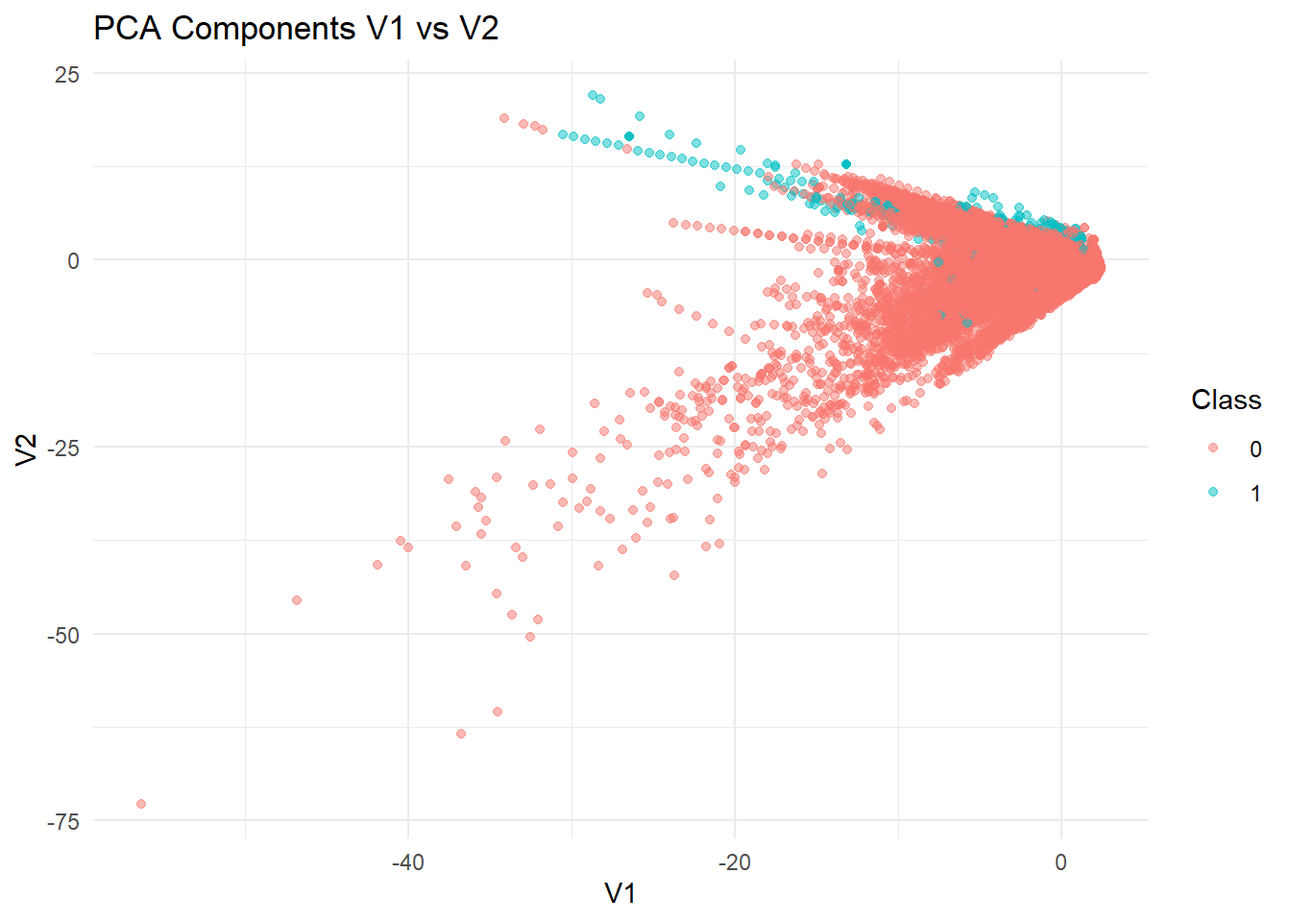
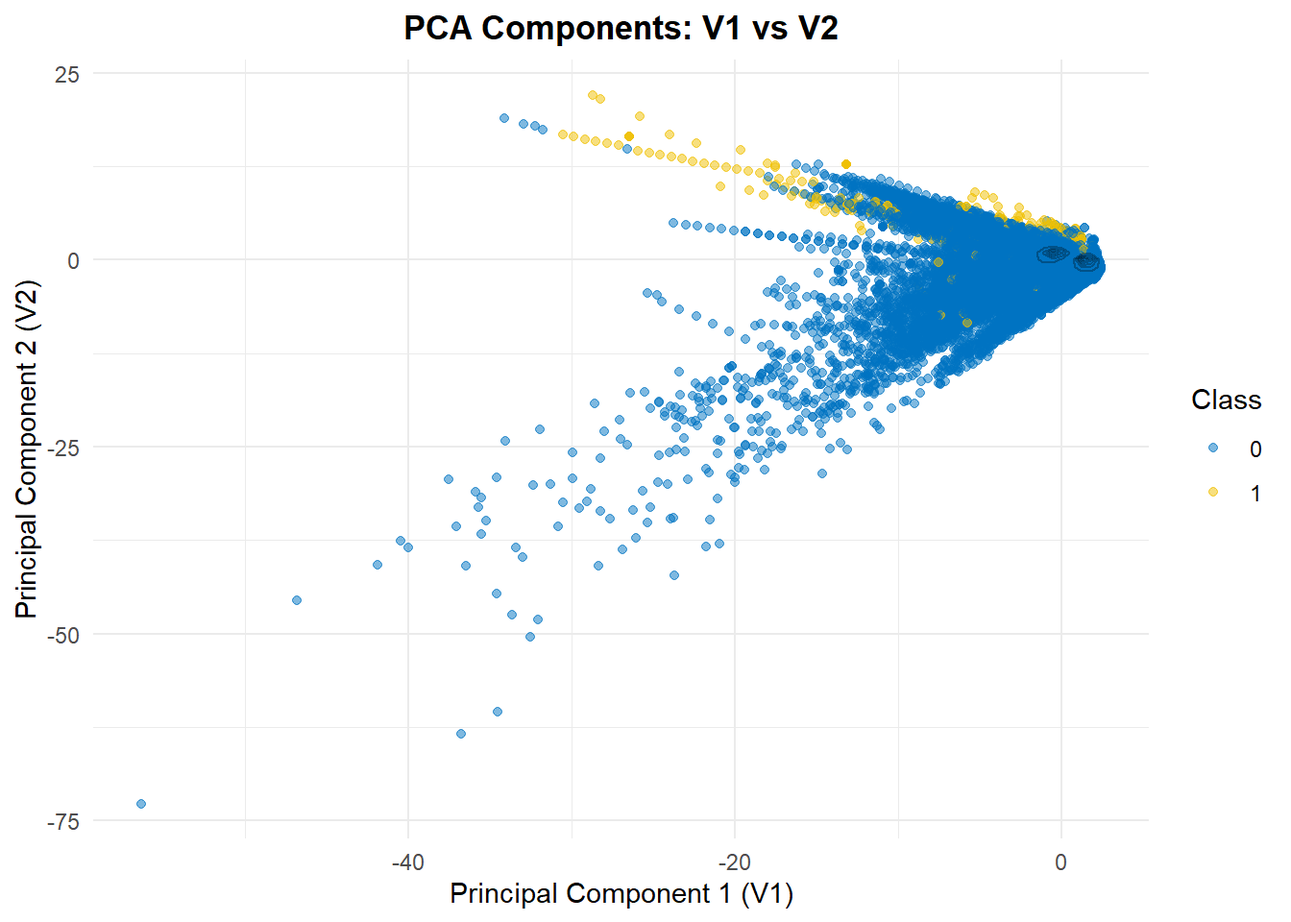
updated PCA scatterplot

diff --git a/Analysis.html b/Analysis.html
@@ -93,8 +93,8 @@ ul.task-list li input[type="checkbox"] {
 <h1>Reading the data</h1>
 <div class="cell">
 <div class="cell-output-display">
-<div class="datatables html-widget html-fill-item-overflow-hidden html-fill-item" id="htmlwidget-8ac09557b01484aeed40" style="width:100%;height:auto;"></div>
-<script type="application/json" data-for="htmlwidget-8ac09557b01484aeed40">{"x":{"filter":"none","vertical":false,"data":[["1","2","3","4","5","6"],[0,0,1,1,2,2],[-1.3598071336738,1.19185711131486,-1.35835406159823,-0.966271711572087,-1.15823309349523,-0.425965884412454],[-0.07278117330984971,0.26615071205963,-1.34016307473609,-0.185226008082898,0.877736754848451,0.960523044882985],[2.53634673796914,0.16648011335321,1.77320934263119,1.79299333957872,1.548717846511,1.14110934232219],[1.37815522427443,0.448154078460911,0.379779593034328,-0.863291275036453,0.403033933955121,-0.168252079760302],[-0.338320769942518,0.0600176492822243,-0.503198133318193,-0.0103088796030823,-0.407193377311653,0.42098688077219],[0.462387777762292,-0.0823608088155687,1.80049938079263,1.24720316752486,0.0959214624684256,-0.0297275516639742],[0.239598554061257,-0.0788029833323113,0.791460956450422,0.23760893977178,0.592940745385545,0.476200948720027],[0.0986979012610507,0.08510165491481041,0.247675786588991,0.377435874652262,-0.270532677192282,0.260314333074874],[0.363786969611213,-0.255425128109186,-1.51465432260583,-1.38702406270197,0.8177393082352939,-0.56867137571251],[0.0907941719789316,-0.166974414004614,0.207642865216696,-0.0549519224713749,0.753074431976354,-0.371407196834471],[-0.551599533260813,1.61272666105479,0.624501459424895,-0.226487263835401,-0.822842877946363,1.34126198001957],[-0.617800855762348,1.06523531137287,0.066083685268831,0.178228225877303,0.53819555014995,0.359893837038039],[-0.991389847235408,0.48909501589608,0.7172927314108311,0.507756869957169,1.3458515932154,-0.358090652573631],[-0.311169353699879,-0.143772296441519,-0.165945922763554,-0.28792374549456,-1.11966983471731,-0.137133700217612],[1.46817697209427,0.635558093258208,2.34586494901581,-0.631418117709045,0.175121130008994,0.517616806555742],[-0.470400525259478,0.463917041022171,-2.89008319444231,-1.0596472454325,-0.451449182813529,0.401725895589603],[0.207971241929242,-0.114804663102346,1.10996937869599,-0.684092786345479,-0.237033239362776,-0.0581328233640131],[0.0257905801985591,-0.183361270123994,-0.121359313195888,1.96577500349538,-0.0381947870352842,0.06865314944254319],[0.403992960255733,-0.145783041325259,-2.26185709530414,-1.2326219700892,0.803486924960175,-0.0331937877876282],[0.251412098239705,-0.0690831352230203,0.5249797252244039,-0.208037781160366,0.408542360392758,0.08496767206820489],[-0.018306777944153,-0.225775248033138,0.247998153469754,-0.108300452035545,-0.009430697132329189,-0.208253514656728],[0.277837575558899,-0.638671952771851,0.7716794019172289,0.00527359678253453,0.79827849458971,-0.559824796253248],[-0.110473910188767,0.101288021253234,0.909412262347719,-0.190320518742841,-0.137458079619063,-0.0263976679795373],[0.06692807491467311,-0.339846475529127,-0.689280956490685,-1.17557533186321,0.141266983824769,-0.371426583174346],[0.128539358273528,0.167170404418143,-0.327641833735251,0.647376034602038,-0.206009587619756,-0.232793816737034],[-0.189114843888824,0.125894532368176,-0.139096571514147,-0.221928844458407,0.502292224181569,0.105914779097957],[0.133558376740387,-0.00898309914322813,-0.0553527940384261,0.0627228487293033,0.219422229513348,0.253844224739337],[-0.0210530534538215,0.0147241691924927,-0.0597518405929204,0.0614576285006353,0.215153147499206,0.08108025692294429],[149.62,2.69,378.66,123.5,69.98999999999999,3.67],[0,0,0,0,0,0]],"container":"<table class=\"display\">\n  <thead>\n    <tr>\n      <th> <\/th>\n      <th>Time<\/th>\n      <th>V1<\/th>\n      <th>V2<\/th>\n      <th>V3<\/th>\n      <th>V4<\/th>\n      <th>V5<\/th>\n      <th>V6<\/th>\n      <th>V7<\/th>\n      <th>V8<\/th>\n      <th>V9<\/th>\n      <th>V10<\/th>\n      <th>V11<\/th>\n      <th>V12<\/th>\n      <th>V13<\/th>\n      <th>V14<\/th>\n      <th>V15<\/th>\n      <th>V16<\/th>\n      <th>V17<\/th>\n      <th>V18<\/th>\n      <th>V19<\/th>\n      <th>V20<\/th>\n      <th>V21<\/th>\n      <th>V22<\/th>\n      <th>V23<\/th>\n      <th>V24<\/th>\n      <th>V25<\/th>\n      <th>V26<\/th>\n      <th>V27<\/th>\n      <th>V28<\/th>\n      <th>Amount<\/th>\n      <th>Class<\/th>\n    <\/tr>\n  <\/thead>\n<\/table>","options":{"columnDefs":[{"className":"dt-right","targets":[1,2,3,4,5,6,7,8,9,10,11,12,13,14,15,16,17,18,19,20,21,22,23,24,25,26,27,28,29,30,31]},{"orderable":false,"targets":0}],"order":[],"autoWidth":false,"orderClasses":false}},"evals":[],"jsHooks":[]}</script>
+<div class="datatables html-widget html-fill-item-overflow-hidden html-fill-item" id="htmlwidget-a2525788a25b4bd6c91a" style="width:100%;height:auto;"></div>
+<script type="application/json" data-for="htmlwidget-a2525788a25b4bd6c91a">{"x":{"filter":"none","vertical":false,"data":[["1","2","3","4","5","6"],[0,0,1,1,2,2],[-1.3598071336738,1.19185711131486,-1.35835406159823,-0.966271711572087,-1.15823309349523,-0.425965884412454],[-0.07278117330984971,0.26615071205963,-1.34016307473609,-0.185226008082898,0.877736754848451,0.960523044882985],[2.53634673796914,0.16648011335321,1.77320934263119,1.79299333957872,1.548717846511,1.14110934232219],[1.37815522427443,0.448154078460911,0.379779593034328,-0.863291275036453,0.403033933955121,-0.168252079760302],[-0.338320769942518,0.0600176492822243,-0.503198133318193,-0.0103088796030823,-0.407193377311653,0.42098688077219],[0.462387777762292,-0.0823608088155687,1.80049938079263,1.24720316752486,0.0959214624684256,-0.0297275516639742],[0.239598554061257,-0.0788029833323113,0.791460956450422,0.23760893977178,0.592940745385545,0.476200948720027],[0.0986979012610507,0.08510165491481041,0.247675786588991,0.377435874652262,-0.270532677192282,0.260314333074874],[0.363786969611213,-0.255425128109186,-1.51465432260583,-1.38702406270197,0.8177393082352939,-0.56867137571251],[0.0907941719789316,-0.166974414004614,0.207642865216696,-0.0549519224713749,0.753074431976354,-0.371407196834471],[-0.551599533260813,1.61272666105479,0.624501459424895,-0.226487263835401,-0.822842877946363,1.34126198001957],[-0.617800855762348,1.06523531137287,0.066083685268831,0.178228225877303,0.53819555014995,0.359893837038039],[-0.991389847235408,0.48909501589608,0.7172927314108311,0.507756869957169,1.3458515932154,-0.358090652573631],[-0.311169353699879,-0.143772296441519,-0.165945922763554,-0.28792374549456,-1.11966983471731,-0.137133700217612],[1.46817697209427,0.635558093258208,2.34586494901581,-0.631418117709045,0.175121130008994,0.517616806555742],[-0.470400525259478,0.463917041022171,-2.89008319444231,-1.0596472454325,-0.451449182813529,0.401725895589603],[0.207971241929242,-0.114804663102346,1.10996937869599,-0.684092786345479,-0.237033239362776,-0.0581328233640131],[0.0257905801985591,-0.183361270123994,-0.121359313195888,1.96577500349538,-0.0381947870352842,0.06865314944254319],[0.403992960255733,-0.145783041325259,-2.26185709530414,-1.2326219700892,0.803486924960175,-0.0331937877876282],[0.251412098239705,-0.0690831352230203,0.5249797252244039,-0.208037781160366,0.408542360392758,0.08496767206820489],[-0.018306777944153,-0.225775248033138,0.247998153469754,-0.108300452035545,-0.009430697132329189,-0.208253514656728],[0.277837575558899,-0.638671952771851,0.7716794019172289,0.00527359678253453,0.79827849458971,-0.559824796253248],[-0.110473910188767,0.101288021253234,0.909412262347719,-0.190320518742841,-0.137458079619063,-0.0263976679795373],[0.06692807491467311,-0.339846475529127,-0.689280956490685,-1.17557533186321,0.141266983824769,-0.371426583174346],[0.128539358273528,0.167170404418143,-0.327641833735251,0.647376034602038,-0.206009587619756,-0.232793816737034],[-0.189114843888824,0.125894532368176,-0.139096571514147,-0.221928844458407,0.502292224181569,0.105914779097957],[0.133558376740387,-0.00898309914322813,-0.0553527940384261,0.0627228487293033,0.219422229513348,0.253844224739337],[-0.0210530534538215,0.0147241691924927,-0.0597518405929204,0.0614576285006353,0.215153147499206,0.08108025692294429],[149.62,2.69,378.66,123.5,69.98999999999999,3.67],[0,0,0,0,0,0]],"container":"<table class=\"display\">\n  <thead>\n    <tr>\n      <th> <\/th>\n      <th>Time<\/th>\n      <th>V1<\/th>\n      <th>V2<\/th>\n      <th>V3<\/th>\n      <th>V4<\/th>\n      <th>V5<\/th>\n      <th>V6<\/th>\n      <th>V7<\/th>\n      <th>V8<\/th>\n      <th>V9<\/th>\n      <th>V10<\/th>\n      <th>V11<\/th>\n      <th>V12<\/th>\n      <th>V13<\/th>\n      <th>V14<\/th>\n      <th>V15<\/th>\n      <th>V16<\/th>\n      <th>V17<\/th>\n      <th>V18<\/th>\n      <th>V19<\/th>\n      <th>V20<\/th>\n      <th>V21<\/th>\n      <th>V22<\/th>\n      <th>V23<\/th>\n      <th>V24<\/th>\n      <th>V25<\/th>\n      <th>V26<\/th>\n      <th>V27<\/th>\n      <th>V28<\/th>\n      <th>Amount<\/th>\n      <th>Class<\/th>\n    <\/tr>\n  <\/thead>\n<\/table>","options":{"columnDefs":[{"className":"dt-right","targets":[1,2,3,4,5,6,7,8,9,10,11,12,13,14,15,16,17,18,19,20,21,22,23,24,25,26,27,28,29,30,31]},{"orderable":false,"targets":0}],"order":[],"autoWidth":false,"orderClasses":false}},"evals":[],"jsHooks":[]}</script>
 </div>
 </div>
 </section>
@@ -157,8 +157,8 @@ Note
 <h2 class="anchored" data-anchor-id="exploring-the-data">Exploring the data</h2>
 <div class="cell">
 <div class="cell-output-display">
-<div class="datatables html-widget html-fill-item-overflow-hidden html-fill-item" id="htmlwidget-1d9b01b6543c174c0c8b" style="width:100%;height:auto;"></div>
-<script type="application/json" data-for="htmlwidget-1d9b01b6543c174c0c8b">{"x":{"filter":"none","vertical":false,"data":[["","","","","","","","","","","","","","","","","","","","","","","","","","","","","","","","","","","","","","","","","","","","","","","","","","","","","","","","","","","","","","","","","","","","","","","","","","","","","","","","","","","","","","","","","","","","","","","","","","","","","","","","","","","","","","","","","","","","","","","","","","","","","","","","","","","","","","","","","","","","","","","","","","","","","","","","","","","","","","","","","","","","","","","","","","","","","","","","","","","","","","","","","",""],["","","","","","","","","","","","","","","","","","","","","","","","","","","","","","","","","","","","","","","","","","","","","","","","","","","","","","","","","","","","","","","","","","","","","","","","","","","","","","","","","","","","","","","","","","","","","","","","","","","","","","","","","","","","","","","","","","","","","","","","","","","","","","","","","","","","","","","","","","","","","","","","","","","","","","","","","","","","","","","","","","","","","","","","","","","","","","","","","","","","","","","","","",""],["     Time","     Time","     Time","     Time","     Time","     Time","      V1","      V1","      V1","      V1","      V1","      V1","      V2","      V2","      V2","      V2","      V2","      V2","      V3","      V3","      V3","      V3","      V3","      V3","      V4","      V4","      V4","      V4","      V4","      V4","      V5","      V5","      V5","      V5","      V5","      V5","      V6","      V6","      V6","      V6","      V6","      V6","      V7","      V7","      V7","      V7","      V7","      V7","      V8","      V8","      V8","      V8","      V8","      V8","      V9","      V9","      V9","      V9","      V9","      V9","     V10","     V10","     V10","     V10","     V10","     V10","     V11","     V11","     V11","     V11","     V11","     V11","     V12","     V12","     V12","     V12","     V12","     V12","     V13","     V13","     V13","     V13","     V13","     V13","     V14","     V14","     V14","     V14","     V14","     V14","     V15","     V15","     V15","     V15","     V15","     V15","     V16","     V16","     V16","     V16","     V16","     V16","     V17","     V17","     V17","     V17","     V17","     V17","     V18","     V18","     V18","     V18","     V18","     V18","     V19","     V19","     V19","     V19","     V19","     V19","     V20","     V20","     V20","     V20","     V20","     V20","     V21","     V21","     V21","     V21","     V21","     V21","     V22","     V22","     V22","     V22","     V22","     V22","     V23","     V23","     V23","     V23","     V23","     V23","     V24","     V24","     V24","     V24","     V24","     V24","     V25","     V25","     V25","     V25","     V25","     V25","     V26","     V26","     V26","     V26","     V26","     V26","     V27","     V27","     V27","     V27","     V27","     V27","     V28","     V28","     V28","     V28","     V28","     V28","    Amount","    Amount","    Amount","    Amount","    Amount","    Amount","    Class","    Class","    Class","    Class","    Class","    Class"],["Min.   :     0  ","1st Qu.: 54202  ","Median : 84692  ","Mean   : 94814  ","3rd Qu.:139321  ","Max.   :172792  ","Min.   :-56.40751  ","1st Qu.: -0.92037  ","Median :  0.01811  ","Mean   :  0.00000  ","3rd Qu.:  1.31564  ","Max.   :  2.45493  ","Min.   :-72.71573  ","1st Qu.: -0.59855  ","Median :  0.06549  ","Mean   :  0.00000  ","3rd Qu.:  0.80372  ","Max.   : 22.05773  ","Min.   :-48.3256  ","1st Qu.: -0.8904  ","Median :  0.1799  ","Mean   :  0.0000  ","3rd Qu.:  1.0272  ","Max.   :  9.3826  ","Min.   :-5.68317  ","1st Qu.:-0.84864  ","Median :-0.01985  ","Mean   : 0.00000  ","3rd Qu.: 0.74334  ","Max.   :16.87534  ","Min.   :-113.74331  ","1st Qu.:  -0.69160  ","Median :  -0.05434  ","Mean   :   0.00000  ","3rd Qu.:   0.61193  ","Max.   :  34.80167  ","Min.   :-26.1605  ","1st Qu.: -0.7683  ","Median : -0.2742  ","Mean   :  0.0000  ","3rd Qu.:  0.3986  ","Max.   : 73.3016  ","Min.   :-43.5572  ","1st Qu.: -0.5541  ","Median :  0.0401  ","Mean   :  0.0000  ","3rd Qu.:  0.5704  ","Max.   :120.5895  ","Min.   :-73.21672  ","1st Qu.: -0.20863  ","Median :  0.02236  ","Mean   :  0.00000  ","3rd Qu.:  0.32735  ","Max.   : 20.00721  ","Min.   :-13.43407  ","1st Qu.: -0.64310  ","Median : -0.05143  ","Mean   :  0.00000  ","3rd Qu.:  0.59714  ","Max.   : 15.59500  ","Min.   :-24.58826  ","1st Qu.: -0.53543  ","Median : -0.09292  ","Mean   :  0.00000  ","3rd Qu.:  0.45392  ","Max.   : 23.74514  ","Min.   :-4.79747  ","1st Qu.:-0.76249  ","Median :-0.03276  ","Mean   : 0.00000  ","3rd Qu.: 0.73959  ","Max.   :12.01891  ","Min.   :-18.6837  ","1st Qu.: -0.4056  ","Median :  0.1400  ","Mean   :  0.0000  ","3rd Qu.:  0.6182  ","Max.   :  7.8484  ","Min.   :-5.79188  ","1st Qu.:-0.64854  ","Median :-0.01357  ","Mean   : 0.00000  ","3rd Qu.: 0.66251  ","Max.   : 7.12688  ","Min.   :-19.2143  ","1st Qu.: -0.4256  ","Median :  0.0506  ","Mean   :  0.0000  ","3rd Qu.:  0.4931  ","Max.   : 10.5268  ","Min.   :-4.49894  ","1st Qu.:-0.58288  ","Median : 0.04807  ","Mean   : 0.00000  ","3rd Qu.: 0.64882  ","Max.   : 8.87774  ","Min.   :-14.12985  ","1st Qu.: -0.46804  ","Median :  0.06641  ","Mean   :  0.00000  ","3rd Qu.:  0.52330  ","Max.   : 17.31511  ","Min.   :-25.16280  ","1st Qu.: -0.48375  ","Median : -0.06568  ","Mean   :  0.00000  ","3rd Qu.:  0.39968  ","Max.   :  9.25353  ","Min.   :-9.498746  ","1st Qu.:-0.498850  ","Median :-0.003636  ","Mean   : 0.000000  ","3rd Qu.: 0.500807  ","Max.   : 5.041069  ","Min.   :-7.213527  ","1st Qu.:-0.456299  ","Median : 0.003735  ","Mean   : 0.000000  ","3rd Qu.: 0.458949  ","Max.   : 5.591971  ","Min.   :-54.49772  ","1st Qu.: -0.21172  ","Median : -0.06248  ","Mean   :  0.00000  ","3rd Qu.:  0.13304  ","Max.   : 39.42090  ","Min.   :-34.83038  ","1st Qu.: -0.22839  ","Median : -0.02945  ","Mean   :  0.00000  ","3rd Qu.:  0.18638  ","Max.   : 27.20284  ","Min.   :-10.933144  ","1st Qu.: -0.542350  ","Median :  0.006782  ","Mean   :  0.000000  ","3rd Qu.:  0.528554  ","Max.   : 10.503090  ","Min.   :-44.80774  ","1st Qu.: -0.16185  ","Median : -0.01119  ","Mean   :  0.00000  ","3rd Qu.:  0.14764  ","Max.   : 22.52841  ","Min.   :-2.83663  ","1st Qu.:-0.35459  ","Median : 0.04098  ","Mean   : 0.00000  ","3rd Qu.: 0.43953  ","Max.   : 4.58455  ","Min.   :-10.29540  ","1st Qu.: -0.31715  ","Median :  0.01659  ","Mean   :  0.00000  ","3rd Qu.:  0.35072  ","Max.   :  7.51959  ","Min.   :-2.60455  ","1st Qu.:-0.32698  ","Median :-0.05214  ","Mean   : 0.00000  ","3rd Qu.: 0.24095  ","Max.   : 3.51735  ","Min.   :-22.565679  ","1st Qu.: -0.070840  ","Median :  0.001342  ","Mean   :  0.000000  ","3rd Qu.:  0.091045  ","Max.   : 31.612198  ","Min.   :-15.43008  ","1st Qu.: -0.05296  ","Median :  0.01124  ","Mean   :  0.00000  ","3rd Qu.:  0.07828  ","Max.   : 33.84781  ","Min.   :    0.00  ","1st Qu.:    5.60  ","Median :   22.00  ","Mean   :   88.35  ","3rd Qu.:   77.17  ","Max.   :25691.16  ","Min.   :0.000000  ","1st Qu.:0.000000  ","Median :0.000000  ","Mean   :0.001728  ","3rd Qu.:0.000000  ","Max.   :1.000000  "]],"container":"<table class=\"display\">\n  <thead>\n    <tr>\n      <th> <\/th>\n      <th>Var1<\/th>\n      <th>Var2<\/th>\n      <th>Freq<\/th>\n    <\/tr>\n  <\/thead>\n<\/table>","options":{"columnDefs":[{"orderable":false,"targets":0}],"order":[],"autoWidth":false,"orderClasses":false}},"evals":[],"jsHooks":[]}</script>
+<div class="datatables html-widget html-fill-item-overflow-hidden html-fill-item" id="htmlwidget-0b53a9c8b8015eda41b4" style="width:100%;height:auto;"></div>
+<script type="application/json" data-for="htmlwidget-0b53a9c8b8015eda41b4">{"x":{"filter":"none","vertical":false,"data":[["","","","","","","","","","","","","","","","","","","","","","","","","","","","","","","","","","","","","","","","","","","","","","","","","","","","","","","","","","","","","","","","","","","","","","","","","","","","","","","","","","","","","","","","","","","","","","","","","","","","","","","","","","","","","","","","","","","","","","","","","","","","","","","","","","","","","","","","","","","","","","","","","","","","","","","","","","","","","","","","","","","","","","","","","","","","","","","","","","","","","","","","","",""],["","","","","","","","","","","","","","","","","","","","","","","","","","","","","","","","","","","","","","","","","","","","","","","","","","","","","","","","","","","","","","","","","","","","","","","","","","","","","","","","","","","","","","","","","","","","","","","","","","","","","","","","","","","","","","","","","","","","","","","","","","","","","","","","","","","","","","","","","","","","","","","","","","","","","","","","","","","","","","","","","","","","","","","","","","","","","","","","","","","","","","","","","",""],["     Time","     Time","     Time","     Time","     Time","     Time","      V1","      V1","      V1","      V1","      V1","      V1","      V2","      V2","      V2","      V2","      V2","      V2","      V3","      V3","      V3","      V3","      V3","      V3","      V4","      V4","      V4","      V4","      V4","      V4","      V5","      V5","      V5","      V5","      V5","      V5","      V6","      V6","      V6","      V6","      V6","      V6","      V7","      V7","      V7","      V7","      V7","      V7","      V8","      V8","      V8","      V8","      V8","      V8","      V9","      V9","      V9","      V9","      V9","      V9","     V10","     V10","     V10","     V10","     V10","     V10","     V11","     V11","     V11","     V11","     V11","     V11","     V12","     V12","     V12","     V12","     V12","     V12","     V13","     V13","     V13","     V13","     V13","     V13","     V14","     V14","     V14","     V14","     V14","     V14","     V15","     V15","     V15","     V15","     V15","     V15","     V16","     V16","     V16","     V16","     V16","     V16","     V17","     V17","     V17","     V17","     V17","     V17","     V18","     V18","     V18","     V18","     V18","     V18","     V19","     V19","     V19","     V19","     V19","     V19","     V20","     V20","     V20","     V20","     V20","     V20","     V21","     V21","     V21","     V21","     V21","     V21","     V22","     V22","     V22","     V22","     V22","     V22","     V23","     V23","     V23","     V23","     V23","     V23","     V24","     V24","     V24","     V24","     V24","     V24","     V25","     V25","     V25","     V25","     V25","     V25","     V26","     V26","     V26","     V26","     V26","     V26","     V27","     V27","     V27","     V27","     V27","     V27","     V28","     V28","     V28","     V28","     V28","     V28","    Amount","    Amount","    Amount","    Amount","    Amount","    Amount","    Class","    Class","    Class","    Class","    Class","    Class"],["Min.   :     0  ","1st Qu.: 54202  ","Median : 84692  ","Mean   : 94814  ","3rd Qu.:139321  ","Max.   :172792  ","Min.   :-56.40751  ","1st Qu.: -0.92037  ","Median :  0.01811  ","Mean   :  0.00000  ","3rd Qu.:  1.31564  ","Max.   :  2.45493  ","Min.   :-72.71573  ","1st Qu.: -0.59855  ","Median :  0.06549  ","Mean   :  0.00000  ","3rd Qu.:  0.80372  ","Max.   : 22.05773  ","Min.   :-48.3256  ","1st Qu.: -0.8904  ","Median :  0.1799  ","Mean   :  0.0000  ","3rd Qu.:  1.0272  ","Max.   :  9.3826  ","Min.   :-5.68317  ","1st Qu.:-0.84864  ","Median :-0.01985  ","Mean   : 0.00000  ","3rd Qu.: 0.74334  ","Max.   :16.87534  ","Min.   :-113.74331  ","1st Qu.:  -0.69160  ","Median :  -0.05434  ","Mean   :   0.00000  ","3rd Qu.:   0.61193  ","Max.   :  34.80167  ","Min.   :-26.1605  ","1st Qu.: -0.7683  ","Median : -0.2742  ","Mean   :  0.0000  ","3rd Qu.:  0.3986  ","Max.   : 73.3016  ","Min.   :-43.5572  ","1st Qu.: -0.5541  ","Median :  0.0401  ","Mean   :  0.0000  ","3rd Qu.:  0.5704  ","Max.   :120.5895  ","Min.   :-73.21672  ","1st Qu.: -0.20863  ","Median :  0.02236  ","Mean   :  0.00000  ","3rd Qu.:  0.32735  ","Max.   : 20.00721  ","Min.   :-13.43407  ","1st Qu.: -0.64310  ","Median : -0.05143  ","Mean   :  0.00000  ","3rd Qu.:  0.59714  ","Max.   : 15.59500  ","Min.   :-24.58826  ","1st Qu.: -0.53543  ","Median : -0.09292  ","Mean   :  0.00000  ","3rd Qu.:  0.45392  ","Max.   : 23.74514  ","Min.   :-4.79747  ","1st Qu.:-0.76249  ","Median :-0.03276  ","Mean   : 0.00000  ","3rd Qu.: 0.73959  ","Max.   :12.01891  ","Min.   :-18.6837  ","1st Qu.: -0.4056  ","Median :  0.1400  ","Mean   :  0.0000  ","3rd Qu.:  0.6182  ","Max.   :  7.8484  ","Min.   :-5.79188  ","1st Qu.:-0.64854  ","Median :-0.01357  ","Mean   : 0.00000  ","3rd Qu.: 0.66251  ","Max.   : 7.12688  ","Min.   :-19.2143  ","1st Qu.: -0.4256  ","Median :  0.0506  ","Mean   :  0.0000  ","3rd Qu.:  0.4931  ","Max.   : 10.5268  ","Min.   :-4.49894  ","1st Qu.:-0.58288  ","Median : 0.04807  ","Mean   : 0.00000  ","3rd Qu.: 0.64882  ","Max.   : 8.87774  ","Min.   :-14.12985  ","1st Qu.: -0.46804  ","Median :  0.06641  ","Mean   :  0.00000  ","3rd Qu.:  0.52330  ","Max.   : 17.31511  ","Min.   :-25.16280  ","1st Qu.: -0.48375  ","Median : -0.06568  ","Mean   :  0.00000  ","3rd Qu.:  0.39968  ","Max.   :  9.25353  ","Min.   :-9.498746  ","1st Qu.:-0.498850  ","Median :-0.003636  ","Mean   : 0.000000  ","3rd Qu.: 0.500807  ","Max.   : 5.041069  ","Min.   :-7.213527  ","1st Qu.:-0.456299  ","Median : 0.003735  ","Mean   : 0.000000  ","3rd Qu.: 0.458949  ","Max.   : 5.591971  ","Min.   :-54.49772  ","1st Qu.: -0.21172  ","Median : -0.06248  ","Mean   :  0.00000  ","3rd Qu.:  0.13304  ","Max.   : 39.42090  ","Min.   :-34.83038  ","1st Qu.: -0.22839  ","Median : -0.02945  ","Mean   :  0.00000  ","3rd Qu.:  0.18638  ","Max.   : 27.20284  ","Min.   :-10.933144  ","1st Qu.: -0.542350  ","Median :  0.006782  ","Mean   :  0.000000  ","3rd Qu.:  0.528554  ","Max.   : 10.503090  ","Min.   :-44.80774  ","1st Qu.: -0.16185  ","Median : -0.01119  ","Mean   :  0.00000  ","3rd Qu.:  0.14764  ","Max.   : 22.52841  ","Min.   :-2.83663  ","1st Qu.:-0.35459  ","Median : 0.04098  ","Mean   : 0.00000  ","3rd Qu.: 0.43953  ","Max.   : 4.58455  ","Min.   :-10.29540  ","1st Qu.: -0.31715  ","Median :  0.01659  ","Mean   :  0.00000  ","3rd Qu.:  0.35072  ","Max.   :  7.51959  ","Min.   :-2.60455  ","1st Qu.:-0.32698  ","Median :-0.05214  ","Mean   : 0.00000  ","3rd Qu.: 0.24095  ","Max.   : 3.51735  ","Min.   :-22.565679  ","1st Qu.: -0.070840  ","Median :  0.001342  ","Mean   :  0.000000  ","3rd Qu.:  0.091045  ","Max.   : 31.612198  ","Min.   :-15.43008  ","1st Qu.: -0.05296  ","Median :  0.01124  ","Mean   :  0.00000  ","3rd Qu.:  0.07828  ","Max.   : 33.84781  ","Min.   :    0.00  ","1st Qu.:    5.60  ","Median :   22.00  ","Mean   :   88.35  ","3rd Qu.:   77.17  ","Max.   :25691.16  ","Min.   :0.000000  ","1st Qu.:0.000000  ","Median :0.000000  ","Mean   :0.001728  ","3rd Qu.:0.000000  ","Max.   :1.000000  "]],"container":"<table class=\"display\">\n  <thead>\n    <tr>\n      <th> <\/th>\n      <th>Var1<\/th>\n      <th>Var2<\/th>\n      <th>Freq<\/th>\n    <\/tr>\n  <\/thead>\n<\/table>","options":{"columnDefs":[{"orderable":false,"targets":0}],"order":[],"autoWidth":false,"orderClasses":false}},"evals":[],"jsHooks":[]}</script>
 </div>
 </div>
 <section id="check-class-imbalance" class="level3">
@@ -232,8 +232,8 @@ Note
 </div>
 </div>
 </section>
-<section id="correlation-heatmap" class="level3">
-<h3 class="anchored" data-anchor-id="correlation-heatmap">Correlation Heatmap</h3>
+<section id="pca-scatter-plot" class="level3">
+<h3 class="anchored" data-anchor-id="pca-scatter-plot">PCA Scatter Plot</h3>
 <div class="cell">
 <div class="cell-output-display">
 <div>
@@ -241,6 +241,23 @@ Note
 <p><img src="Analysis_files/figure-html/unnamed-chunk-7-1.png" class="img-fluid figure-img" width="672"></p>
 </figure>
 </div>
+</div>
+</div>
+<div class="callout callout-style-default callout-note callout-titled">
+<div class="callout-header d-flex align-content-center">
+<div class="callout-icon-container">
+<i class="callout-icon"></i>
+</div>
+<div class="callout-title-container flex-fill">
+Note
+</div>
+</div>
+<div class="callout-body-container callout-body">
+<ol type="1">
+<li><p>Fraudulent transactions (Class 1) are concentrated in distinct regions of the PCA-transformed space.</p></li>
+<li><p>Non-fraudulent transactions (Class 0) are more dispersed, indicating greater variation in their feature distribution.</p></li>
+<li><p>The clustering of fraudulent transactions suggests that certain PCA components can be useful in fraud detection.</p></li>
+</ol>
 </div>
 </div>
 </section>
@@ -305,8 +322,8 @@ Note
 <h2 class="anchored" data-anchor-id="data-preprocessing">Data Preprocessing</h2>
 <div class="cell">
 <div class="cell-output-display">
-<div class="datatables html-widget html-fill-item-overflow-hidden html-fill-item" id="htmlwidget-2dbae1da16a0ea25e87c" style="width:100%;height:auto;"></div>
-<script type="application/json" data-for="htmlwidget-2dbae1da16a0ea25e87c">{"x":{"filter":"none","vertical":false,"data":[["1","2","3","4","5","6"],[-1.3598071336738,1.19185711131486,-1.35835406159823,-0.966271711572087,-1.15823309349523,-0.425965884412454],[-0.07278117330984971,0.26615071205963,-1.34016307473609,-0.185226008082898,0.877736754848451,0.960523044882985],[2.53634673796914,0.16648011335321,1.77320934263119,1.79299333957872,1.548717846511,1.14110934232219],[1.37815522427443,0.448154078460911,0.379779593034328,-0.863291275036453,0.403033933955121,-0.168252079760302],[-0.338320769942518,0.0600176492822243,-0.503198133318193,-0.0103088796030823,-0.407193377311653,0.42098688077219],[0.462387777762292,-0.0823608088155687,1.80049938079263,1.24720316752486,0.0959214624684256,-0.0297275516639742],[0.239598554061257,-0.0788029833323113,0.791460956450422,0.23760893977178,0.592940745385545,0.476200948720027],[0.0986979012610507,0.08510165491481041,0.247675786588991,0.377435874652262,-0.270532677192282,0.260314333074874],[0.363786969611213,-0.255425128109186,-1.51465432260583,-1.38702406270197,0.8177393082352939,-0.56867137571251],[0.0907941719789316,-0.166974414004614,0.207642865216696,-0.0549519224713749,0.753074431976354,-0.371407196834471],[-0.551599533260813,1.61272666105479,0.624501459424895,-0.226487263835401,-0.822842877946363,1.34126198001957],[-0.617800855762348,1.06523531137287,0.066083685268831,0.178228225877303,0.53819555014995,0.359893837038039],[-0.991389847235408,0.48909501589608,0.7172927314108311,0.507756869957169,1.3458515932154,-0.358090652573631],[-0.311169353699879,-0.143772296441519,-0.165945922763554,-0.28792374549456,-1.11966983471731,-0.137133700217612],[1.46817697209427,0.635558093258208,2.34586494901581,-0.631418117709045,0.175121130008994,0.517616806555742],[-0.470400525259478,0.463917041022171,-2.89008319444231,-1.0596472454325,-0.451449182813529,0.401725895589603],[0.207971241929242,-0.114804663102346,1.10996937869599,-0.684092786345479,-0.237033239362776,-0.0581328233640131],[0.0257905801985591,-0.183361270123994,-0.121359313195888,1.96577500349538,-0.0381947870352842,0.06865314944254319],[0.403992960255733,-0.145783041325259,-2.26185709530414,-1.2326219700892,0.803486924960175,-0.0331937877876282],[0.251412098239705,-0.0690831352230203,0.5249797252244039,-0.208037781160366,0.408542360392758,0.08496767206820489],[-0.018306777944153,-0.225775248033138,0.247998153469754,-0.108300452035545,-0.009430697132329189,-0.208253514656728],[0.277837575558899,-0.638671952771851,0.7716794019172289,0.00527359678253453,0.79827849458971,-0.559824796253248],[-0.110473910188767,0.101288021253234,0.909412262347719,-0.190320518742841,-0.137458079619063,-0.0263976679795373],[0.06692807491467311,-0.339846475529127,-0.689280956490685,-1.17557533186321,0.141266983824769,-0.371426583174346],[0.128539358273528,0.167170404418143,-0.327641833735251,0.647376034602038,-0.206009587619756,-0.232793816737034],[-0.189114843888824,0.125894532368176,-0.139096571514147,-0.221928844458407,0.502292224181569,0.105914779097957],[0.133558376740387,-0.00898309914322813,-0.0553527940384261,0.0627228487293033,0.219422229513348,0.253844224739337],[-0.0210530534538215,0.0147241691924927,-0.0597518405929204,0.0614576285006353,0.215153147499206,0.08108025692294429],[0.005823793086804955,0.0001047052760560442,0.01473892187040212,0.004807100963911322,0.00272428337217938,0.0001428506926117777],[0,0,0,0,0,0],["Very High","Low","Very High","Very High","High","Low"]],"container":"<table class=\"display\">\n  <thead>\n    <tr>\n      <th> <\/th>\n      <th>V1<\/th>\n      <th>V2<\/th>\n      <th>V3<\/th>\n      <th>V4<\/th>\n      <th>V5<\/th>\n      <th>V6<\/th>\n      <th>V7<\/th>\n      <th>V8<\/th>\n      <th>V9<\/th>\n      <th>V10<\/th>\n      <th>V11<\/th>\n      <th>V12<\/th>\n      <th>V13<\/th>\n      <th>V14<\/th>\n      <th>V15<\/th>\n      <th>V16<\/th>\n      <th>V17<\/th>\n      <th>V18<\/th>\n      <th>V19<\/th>\n      <th>V20<\/th>\n      <th>V21<\/th>\n      <th>V22<\/th>\n      <th>V23<\/th>\n      <th>V24<\/th>\n      <th>V25<\/th>\n      <th>V26<\/th>\n      <th>V27<\/th>\n      <th>V28<\/th>\n      <th>Amount<\/th>\n      <th>Class<\/th>\n      <th>Amount_Category<\/th>\n    <\/tr>\n  <\/thead>\n<\/table>","options":{"columnDefs":[{"className":"dt-right","targets":[1,2,3,4,5,6,7,8,9,10,11,12,13,14,15,16,17,18,19,20,21,22,23,24,25,26,27,28,29,30]},{"orderable":false,"targets":0}],"order":[],"autoWidth":false,"orderClasses":false}},"evals":[],"jsHooks":[]}</script>
+<div class="datatables html-widget html-fill-item-overflow-hidden html-fill-item" id="htmlwidget-7e1b6ba7346e3de69ea9" style="width:100%;height:auto;"></div>
+<script type="application/json" data-for="htmlwidget-7e1b6ba7346e3de69ea9">{"x":{"filter":"none","vertical":false,"data":[["1","2","3","4","5","6"],[-1.3598071336738,1.19185711131486,-1.35835406159823,-0.966271711572087,-1.15823309349523,-0.425965884412454],[-0.07278117330984971,0.26615071205963,-1.34016307473609,-0.185226008082898,0.877736754848451,0.960523044882985],[2.53634673796914,0.16648011335321,1.77320934263119,1.79299333957872,1.548717846511,1.14110934232219],[1.37815522427443,0.448154078460911,0.379779593034328,-0.863291275036453,0.403033933955121,-0.168252079760302],[-0.338320769942518,0.0600176492822243,-0.503198133318193,-0.0103088796030823,-0.407193377311653,0.42098688077219],[0.462387777762292,-0.0823608088155687,1.80049938079263,1.24720316752486,0.0959214624684256,-0.0297275516639742],[0.239598554061257,-0.0788029833323113,0.791460956450422,0.23760893977178,0.592940745385545,0.476200948720027],[0.0986979012610507,0.08510165491481041,0.247675786588991,0.377435874652262,-0.270532677192282,0.260314333074874],[0.363786969611213,-0.255425128109186,-1.51465432260583,-1.38702406270197,0.8177393082352939,-0.56867137571251],[0.0907941719789316,-0.166974414004614,0.207642865216696,-0.0549519224713749,0.753074431976354,-0.371407196834471],[-0.551599533260813,1.61272666105479,0.624501459424895,-0.226487263835401,-0.822842877946363,1.34126198001957],[-0.617800855762348,1.06523531137287,0.066083685268831,0.178228225877303,0.53819555014995,0.359893837038039],[-0.991389847235408,0.48909501589608,0.7172927314108311,0.507756869957169,1.3458515932154,-0.358090652573631],[-0.311169353699879,-0.143772296441519,-0.165945922763554,-0.28792374549456,-1.11966983471731,-0.137133700217612],[1.46817697209427,0.635558093258208,2.34586494901581,-0.631418117709045,0.175121130008994,0.517616806555742],[-0.470400525259478,0.463917041022171,-2.89008319444231,-1.0596472454325,-0.451449182813529,0.401725895589603],[0.207971241929242,-0.114804663102346,1.10996937869599,-0.684092786345479,-0.237033239362776,-0.0581328233640131],[0.0257905801985591,-0.183361270123994,-0.121359313195888,1.96577500349538,-0.0381947870352842,0.06865314944254319],[0.403992960255733,-0.145783041325259,-2.26185709530414,-1.2326219700892,0.803486924960175,-0.0331937877876282],[0.251412098239705,-0.0690831352230203,0.5249797252244039,-0.208037781160366,0.408542360392758,0.08496767206820489],[-0.018306777944153,-0.225775248033138,0.247998153469754,-0.108300452035545,-0.009430697132329189,-0.208253514656728],[0.277837575558899,-0.638671952771851,0.7716794019172289,0.00527359678253453,0.79827849458971,-0.559824796253248],[-0.110473910188767,0.101288021253234,0.909412262347719,-0.190320518742841,-0.137458079619063,-0.0263976679795373],[0.06692807491467311,-0.339846475529127,-0.689280956490685,-1.17557533186321,0.141266983824769,-0.371426583174346],[0.128539358273528,0.167170404418143,-0.327641833735251,0.647376034602038,-0.206009587619756,-0.232793816737034],[-0.189114843888824,0.125894532368176,-0.139096571514147,-0.221928844458407,0.502292224181569,0.105914779097957],[0.133558376740387,-0.00898309914322813,-0.0553527940384261,0.0627228487293033,0.219422229513348,0.253844224739337],[-0.0210530534538215,0.0147241691924927,-0.0597518405929204,0.0614576285006353,0.215153147499206,0.08108025692294429],[0.005823793086804955,0.0001047052760560442,0.01473892187040212,0.004807100963911322,0.00272428337217938,0.0001428506926117777],[0,0,0,0,0,0],["Very High","Low","Very High","Very High","High","Low"]],"container":"<table class=\"display\">\n  <thead>\n    <tr>\n      <th> <\/th>\n      <th>V1<\/th>\n      <th>V2<\/th>\n      <th>V3<\/th>\n      <th>V4<\/th>\n      <th>V5<\/th>\n      <th>V6<\/th>\n      <th>V7<\/th>\n      <th>V8<\/th>\n      <th>V9<\/th>\n      <th>V10<\/th>\n      <th>V11<\/th>\n      <th>V12<\/th>\n      <th>V13<\/th>\n      <th>V14<\/th>\n      <th>V15<\/th>\n      <th>V16<\/th>\n      <th>V17<\/th>\n      <th>V18<\/th>\n      <th>V19<\/th>\n      <th>V20<\/th>\n      <th>V21<\/th>\n      <th>V22<\/th>\n      <th>V23<\/th>\n      <th>V24<\/th>\n      <th>V25<\/th>\n      <th>V26<\/th>\n      <th>V27<\/th>\n      <th>V28<\/th>\n      <th>Amount<\/th>\n      <th>Class<\/th>\n      <th>Amount_Category<\/th>\n    <\/tr>\n  <\/thead>\n<\/table>","options":{"columnDefs":[{"className":"dt-right","targets":[1,2,3,4,5,6,7,8,9,10,11,12,13,14,15,16,17,18,19,20,21,22,23,24,25,26,27,28,29,30]},{"orderable":false,"targets":0}],"order":[],"autoWidth":false,"orderClasses":false}},"evals":[],"jsHooks":[]}</script>
 </div>
 </div>
 <ol type="1">
